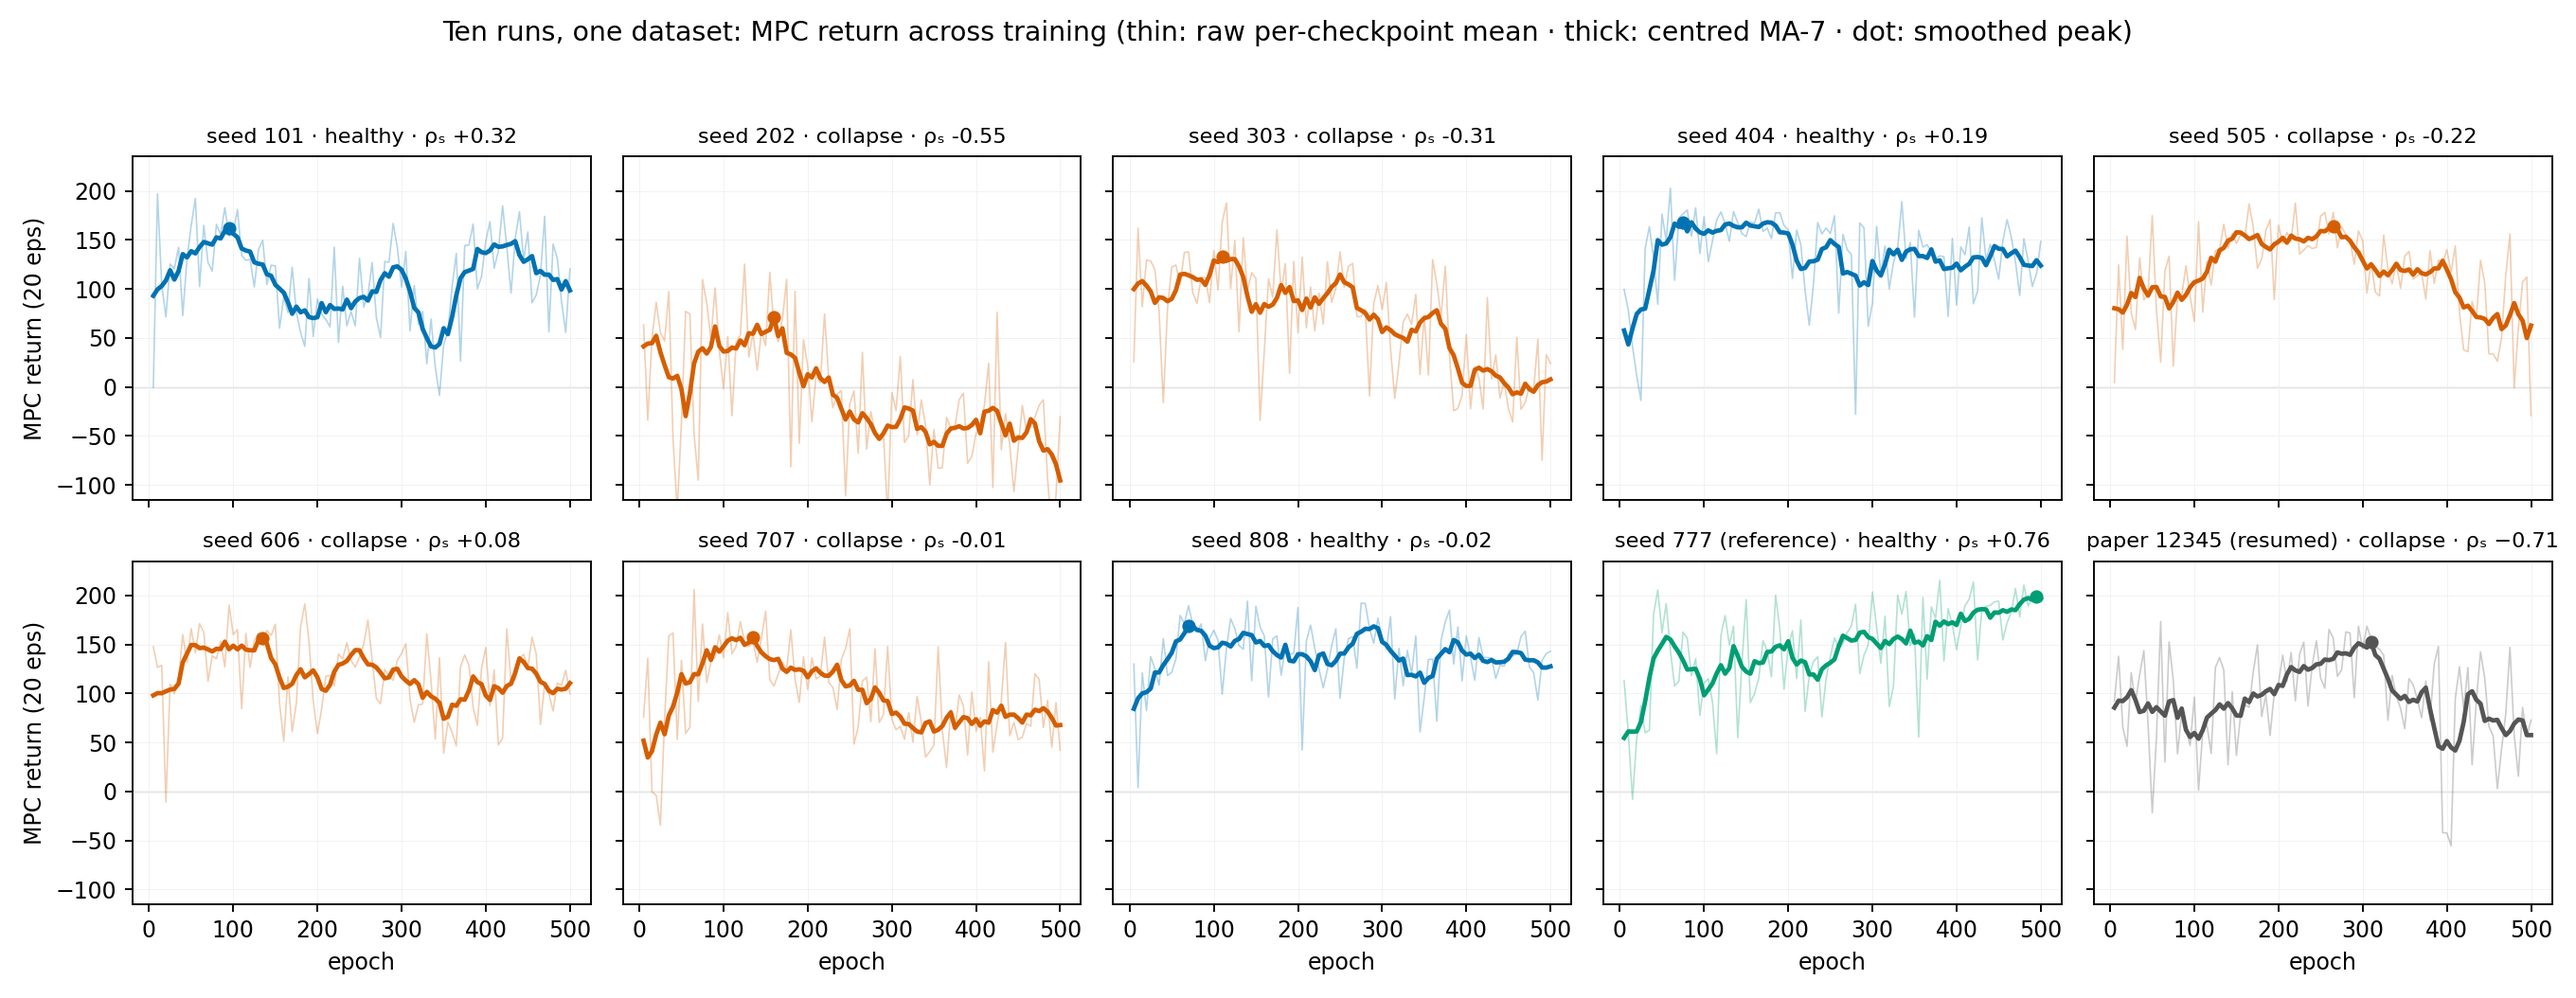
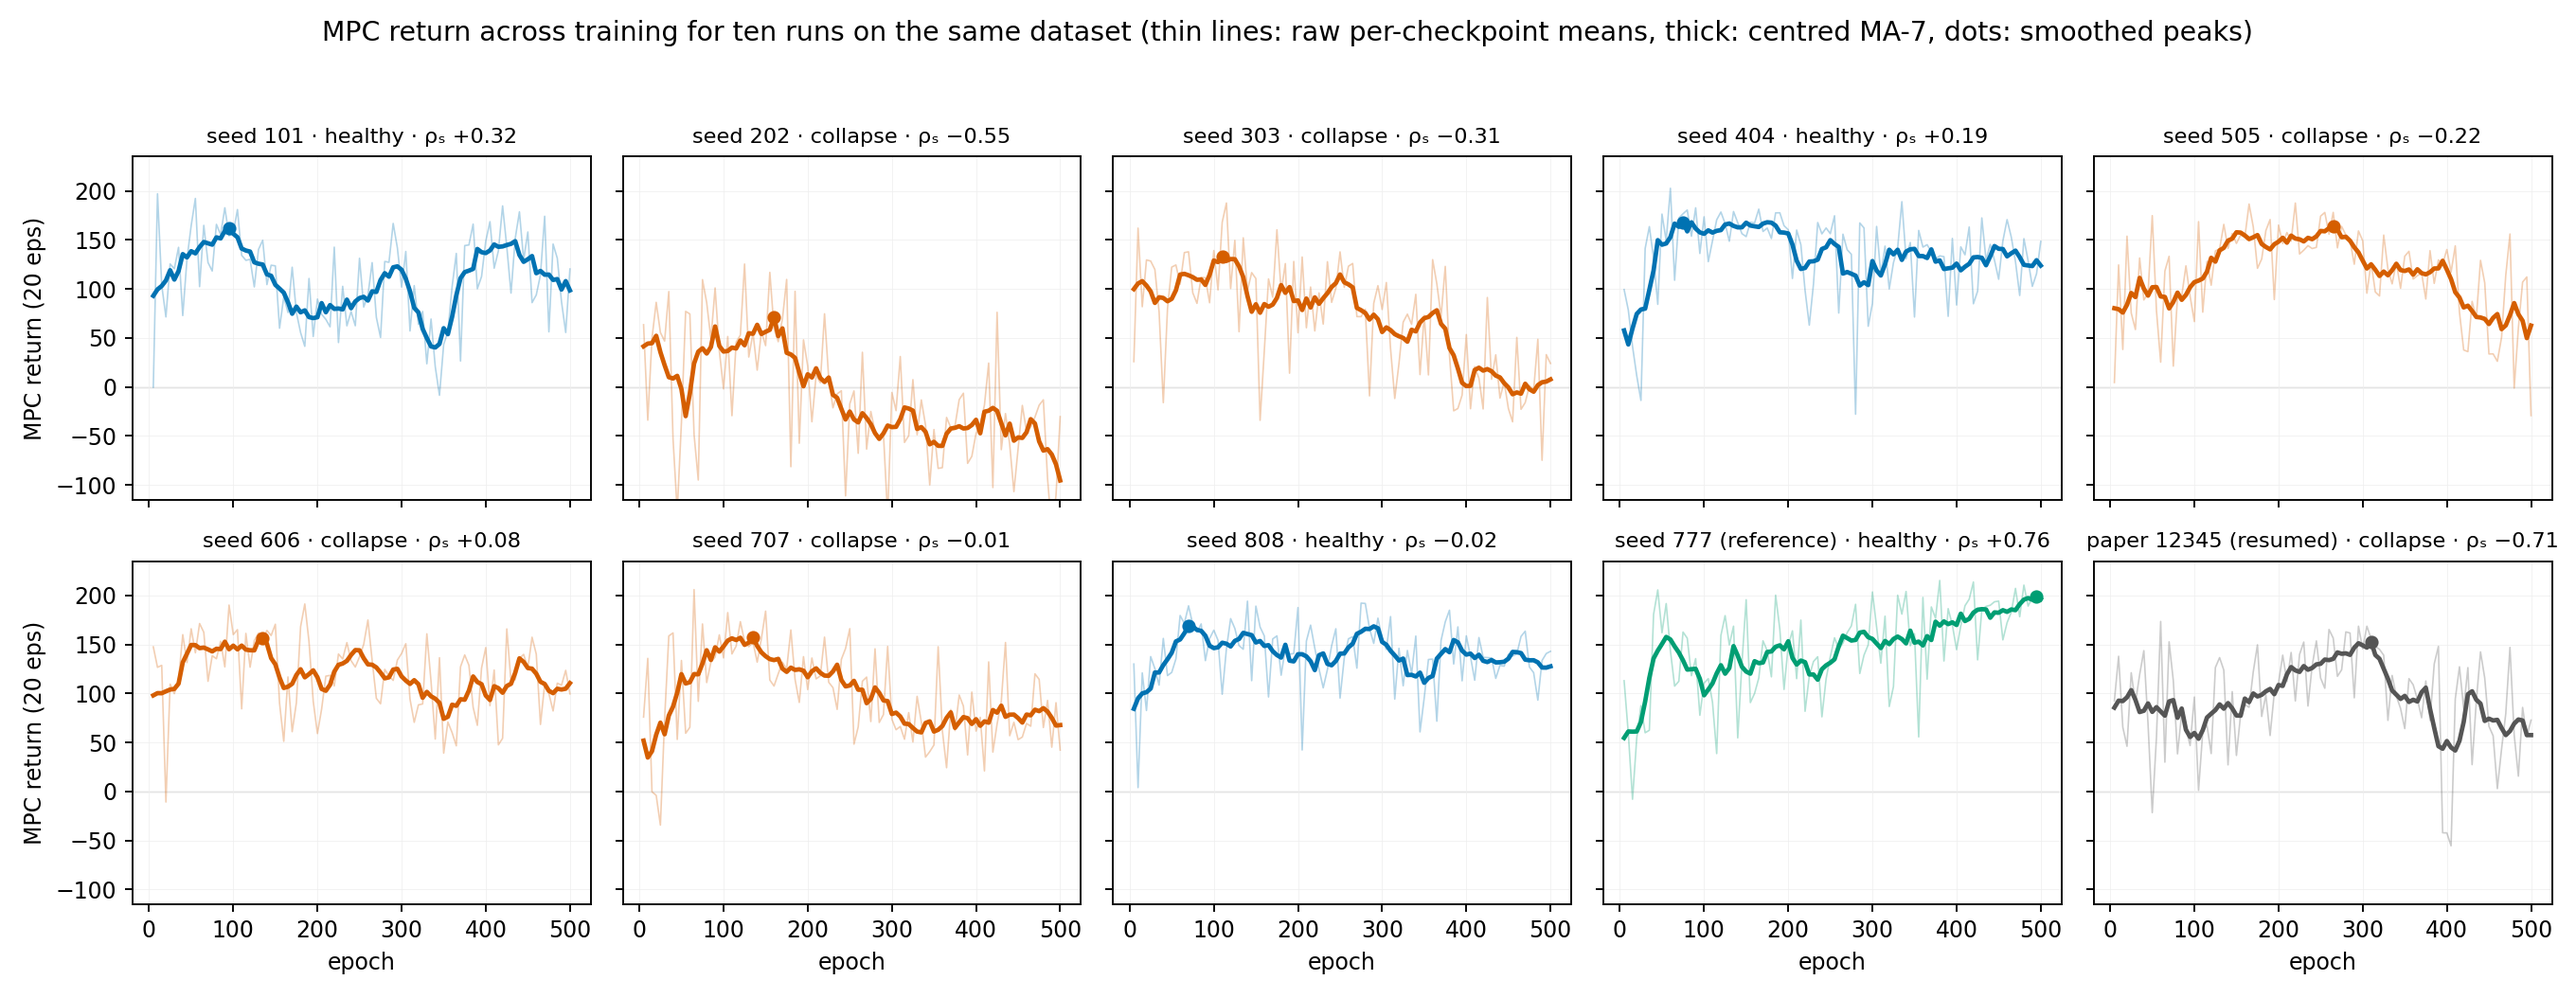
Figure captions: plain descriptive titles, unified minus glyphs

diff --git a/results/figures/make_panel_figures.py b/results/figures/make_panel_figures.py
@@ -64,7 +64,7 @@ for ax, key in zip(axes.flat, order):
         healthy = key not in COLLAPSE
         col = C_HEALTHY if healthy else C_COLLAPSE
         label = (f"seed {key} · {'healthy' if healthy else 'collapse'}"
-                 f" · ρₛ {RHO[key]:+.2f}")
+                 f" · ρₛ {RHO[key]:+.2f}".replace("-", "−"))
     ax.plot(eps, raw, lw=0.7, color=col, alpha=0.30)
     ax.plot(eps, sm, lw=2.0, color=col)
     pk = max(range(len(sm)), key=lambda i: sm[i])
@@ -77,8 +77,8 @@ for ax in axes[1]:
 for ax in axes[:, 0]:
     ax.set_ylabel("MPC return (20 eps)")
 axes.flat[0].set_ylim(-115, 235)
-fig.suptitle("Ten runs, one dataset: MPC return across training "
-             "(thin: raw per-checkpoint mean · thick: centred MA-7 · dot: smoothed peak)",
+fig.suptitle("MPC return across training for ten runs on the same dataset "
+             "(thin lines: raw per-checkpoint means, thick: centred MA-7, dots: smoothed peaks)",
              fontsize=12)
 fig.tight_layout(rect=(0, 0, 1, 0.95))
 fig.savefig(HERE / "fig_panel_curves.png", dpi=170)
@@ -108,7 +108,8 @@ ax.set_yticks(range(len(rows)), [r[0] for r in rows])
 ax.set_xlim(-10, 560)
 ax.set_ylim(-0.7, len(rows) - 0.3)
 ax.set_xlabel("epoch")
-ax.set_title("Collapsing runs: ROF minimum (open) vs MPC peak (filled)", fontsize=12)
+ax.set_title("ROF minimum (open circles) and MPC peak (filled) in each collapsing run",
+             fontsize=12)
 ax.grid(True, axis="x", lw=0.3, color="#eeeeee")
 fig.tight_layout()
 fig.savefig(HERE / "fig_rof_lead.png", dpi=170)
@@ -124,13 +125,14 @@ fig, ax = plt.subplots(figsize=(7.4, 4.6))
 ax.axvline(0, lw=0.8, color="#bbbbbb", zorder=0)
 for y, (name, rho, col, mk) in enumerate(entries):
     ax.plot(rho, y, mk, ms=9 if mk == "o" else 8, color=col, zorder=3)
-    ax.text(rho + (0.045 if rho >= 0 else -0.045), y, f"{rho:+.2f}",
+    ax.text(rho + (0.045 if rho >= 0 else -0.045), y,
+            f"{rho:+.2f}".replace("-", "−"),
             va="center", ha="left" if rho >= 0 else "right",
             fontsize=9, color="#333333")
 ax.set_yticks(range(len(entries)), [e[0] for e in entries])
 ax.set_xlim(-1.0, 1.0)
 ax.set_xlabel("ρₛ(jac_rof_combined, smoothed MPC)")
-ax.set_title("Per-run ROF correlation: eight fresh seeds and the two reference runs",
+ax.set_title("Correlation between jac_rof_combined and smoothed MPC return, per run",
              fontsize=12)
 ax.grid(True, axis="x", lw=0.3, color="#eeeeee")
 h = [plt.Line2D([], [], marker="o", ls="", color=C_COLLAPSE, label="collapse"),
